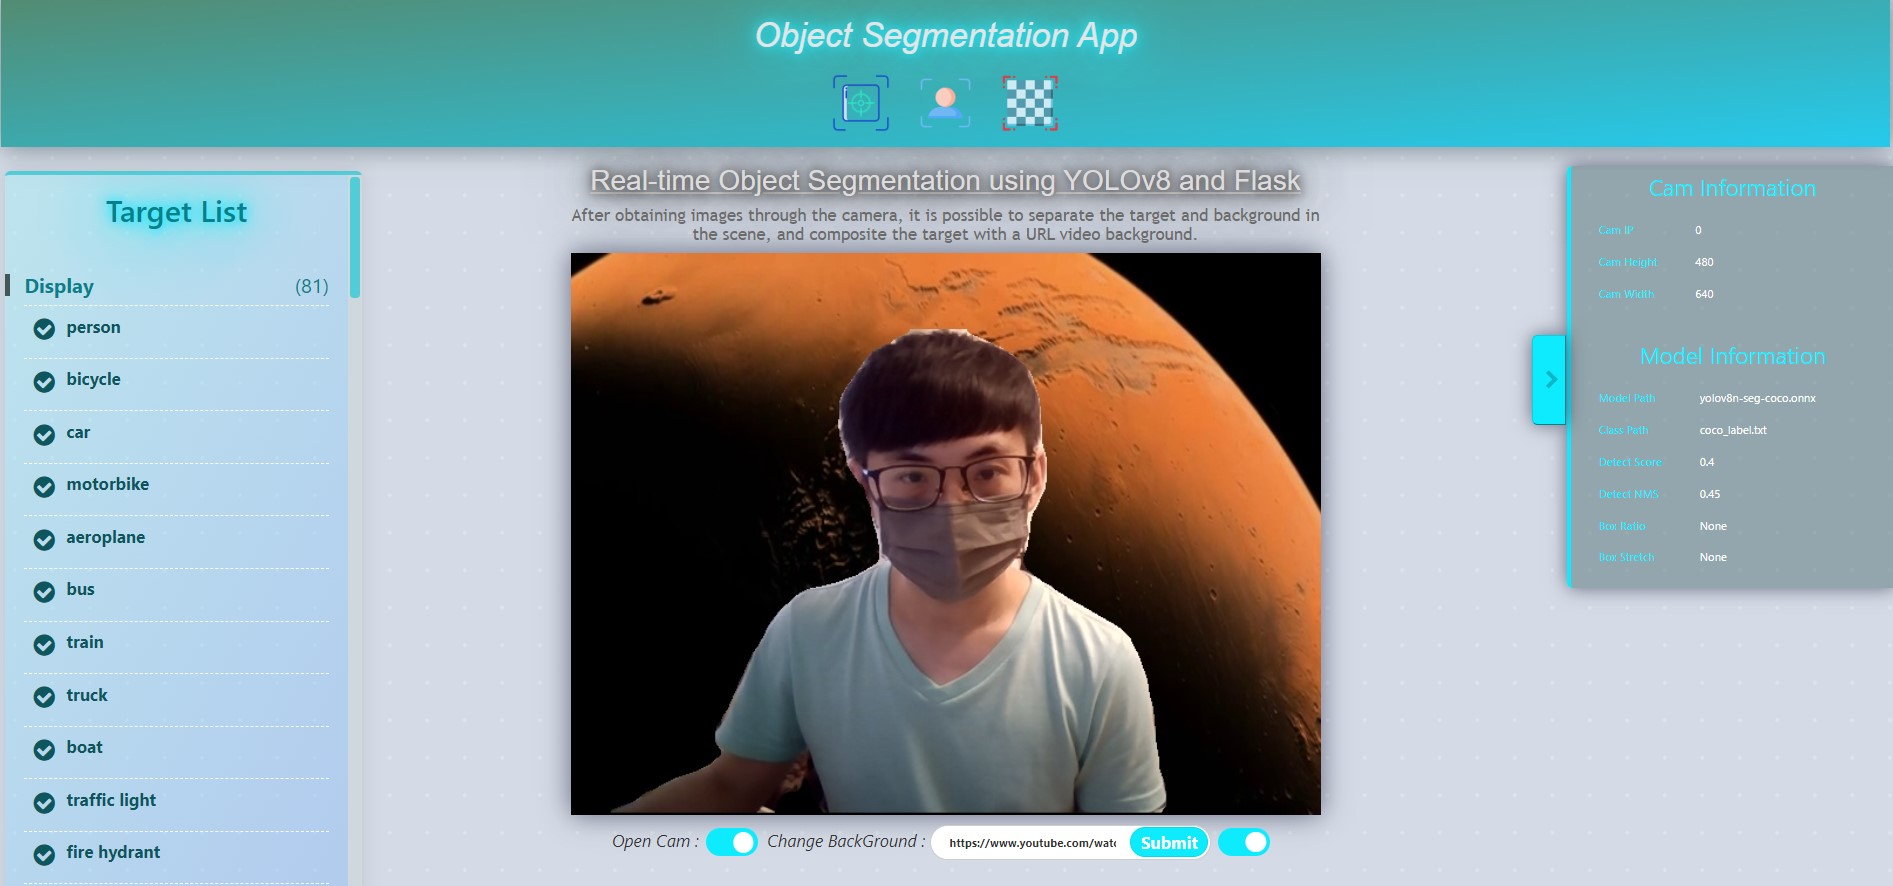
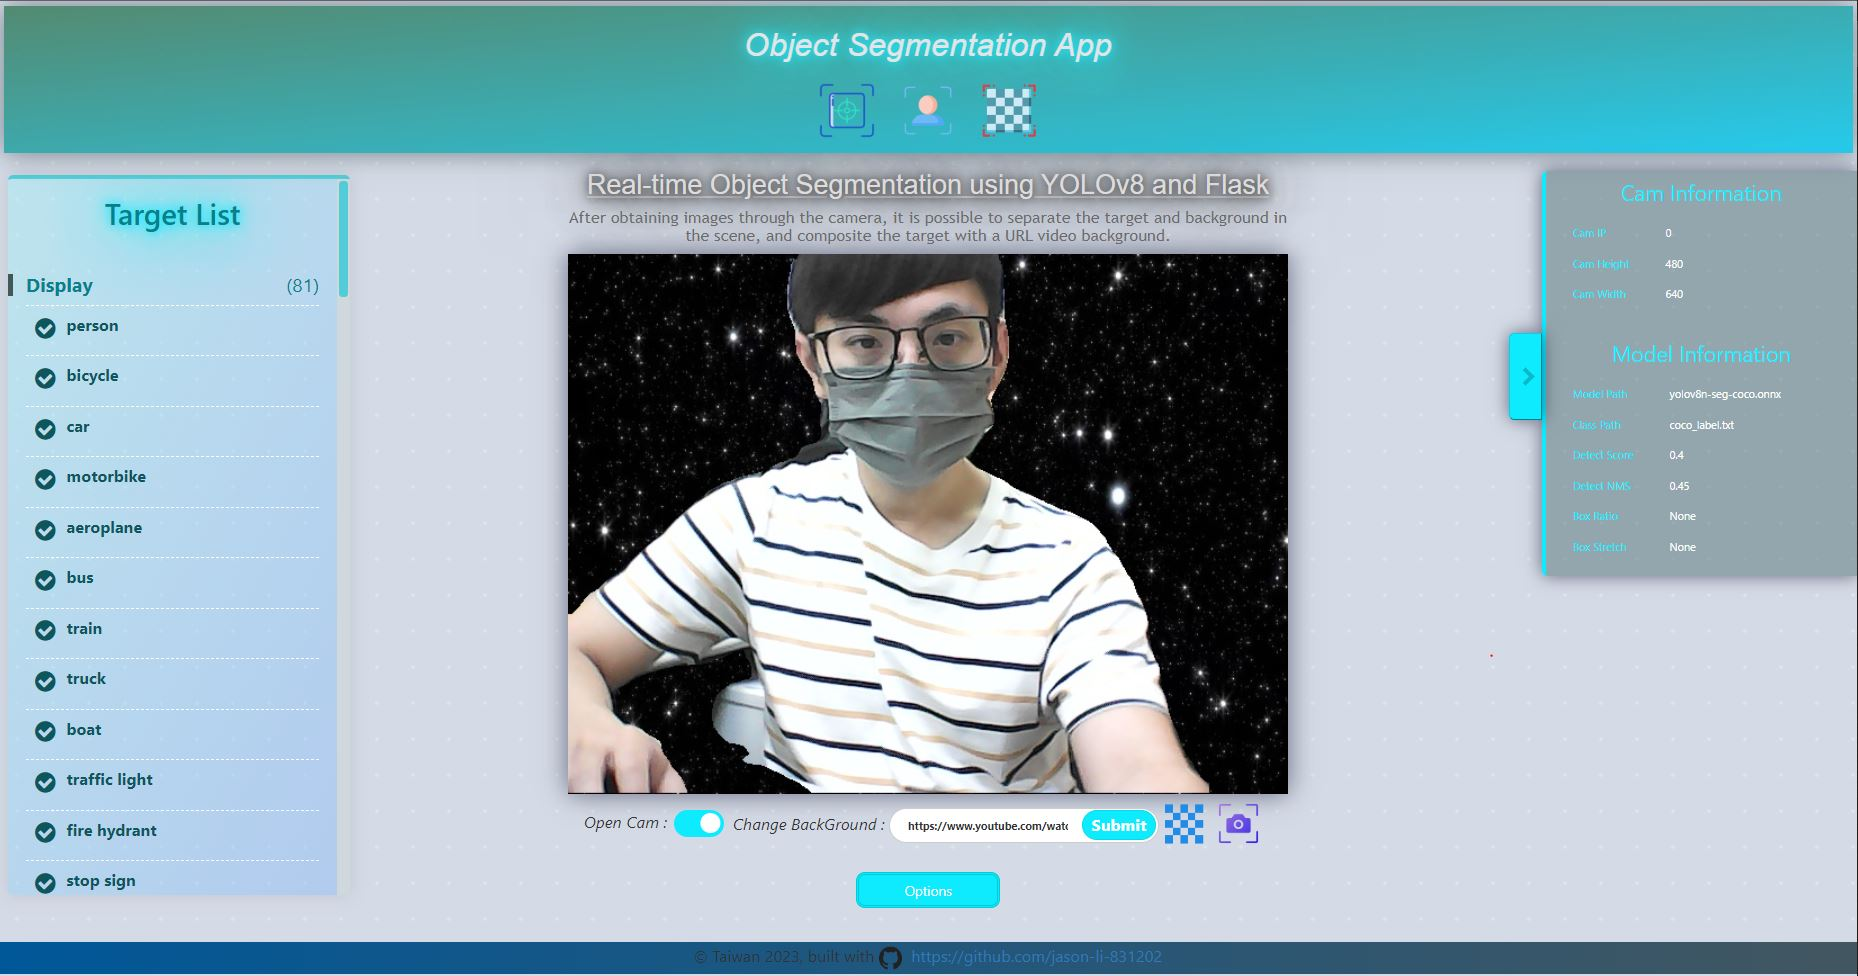
update btn UI.

diff --git a/src/templates/index.html b/src/templates/index.html
@@ -91,12 +91,15 @@
     <span ></span>
   </div>
 
-  <div id="container" align=center>
+  <div id="capture" align=center>
     <img id="videoElement" src="{{ url_for('video_feed') }}" />
+  </div>
 
+  <div id="container" align=center>
     <!-- main btn -->
-    <table style="margin-top:10px;">
+    <table style="margin-top:10px; width: 800px;">
         <tr>
+
           <td>
             <em> Open Cam : </em>
             <label class="switch">
@@ -104,16 +107,22 @@
               <span class="btnCyanSlider round"></span>
             </label>
           </td>
+
           <td>
             <em> Change BackGround : </em>
             <label class="custom-search">
               <input id="video-url" type="text" class="custom-search-input" placeholder="Enter Video Url or Local Path">
               <button id="upload" class="custom-search-botton" type="submit">Submit</button>  
             </label>
-            <label class="switch">
-              <input  type="checkbox" id="background-preview">
-              <span class="btnCyanSlider round"></span>
+
+          </td>
+          
+          <td>
+            <label class="switch-icon">
+              <input type="checkbox" id="background-preview">
+              <span class="btnIconSlider"></span>
             </label>
+            <button class="download" onclick="blockCapture()"></button>
           </td>
         </tr>
     </table>
@@ -221,6 +230,7 @@
 {% block scripts %}
 <!-- Imports -->
 <script src="//ajax.googleapis.com/ajax/libs/jquery/1.9.1/jquery.min.js"></script>
+<script src="https://html2canvas.hertzen.com/dist/html2canvas.min.js"></script>
 
 <!-- Scripts -->
 <script

diff --git a/src/templates/static/css/switch.css b/src/templates/static/css/switch.css
@@ -70,3 +70,50 @@ input:checked + .btnDarkGraySlider:before, input:checked + .btnCyanSlider:before
 .btnDarkGraySlider.round:before, .btnCyanSlider.round:before {
   border-radius: 50%;
 }
+
+
+/* The Icon switch*/
+.switch-icon {
+  border:none;
+  content: "";
+  display: inline-block;
+  color: #fff;
+  width: 45px;
+  height: 45px;
+  margin-right: 13px;
+  position: relative;
+  top: 0px;
+  vertical-align: middle;
+}
+
+/* Hide default HTML checkbox */
+.switch-icon input {
+  opacity: 0;
+  width: 0;
+  height: 15px;
+}
+
+.btnIconSlider {
+  background: url(/static/icons/bg.png) no-repeat scroll center center / 100% auto;
+  top: 0;
+  left: 0;
+  right: 0;
+  bottom: 0;
+  position: absolute;
+  cursor: pointer;
+}
+
+input[type=checkbox]:hover + .btnIconSlider {
+  width: 50px;
+  height: 50px;
+  border-radius: 5px;
+}
+
+input[type=checkbox] + .btnIconSlider {
+  background: url(/static/icons/bg.png) no-repeat scroll center center / 100% auto;
+
+}
+
+input[type=checkbox]:checked + .btnIconSlider {
+  background: url(/static/icons/pruning-bg.png) no-repeat scroll center center / 100% auto;
+}

diff --git a/src/templates/static/style.css b/src/templates/static/style.css
@@ -82,6 +82,8 @@ h1.aside{
 }
 
 #section{
+    /* background-color: black; */
+    /* width: auto; */
     width: 800px;
     /* margin-left: 28%; */
     margin: auto;
@@ -112,6 +114,7 @@ h1.aside{
     box-shadow: 0 0 30px hsla(240, 40%, 15%, 0.6);
 }
 
+
 #control {
     margin-top: 40px;
 }
@@ -131,4 +134,25 @@ input[type="file"] {
     overflow: hidden;
     clip: rect(0,0,0,0);
     border: 0;
+}
+
+.download {
+    background: url(/static/icons/screenshot.png) no-repeat scroll center center / 100% auto;
+    border:none;
+    content: "";
+    display: inline-block;
+    color: #fff;
+    width: 50px;
+    height: 50px;
+    margin-right: 13px;
+    position: relative;
+    top: -2px;
+    vertical-align: middle;
+ }
+
+ 
+.download:hover {
+width: 55px;
+height: 55px;
+border-radius: 5px;
 }

diff --git a/src/templates/static/script.js b/src/templates/static/script.js
@@ -16,6 +16,15 @@ function initSliderPosition(input_id){
   return val;
 }
 
+function blockCapture() {
+  html2canvas(document.querySelector("#capture")).then(function (canvas) {
+      a = document.createElement('a');
+      a.href = canvas.toDataURL("image/jpeg", 0.92).replace("image/jpeg", "image/octet-stream");
+      a.download = 'screenshot.jpg';
+      a.click();
+  });
+}
+
 function sliderChangeHandler(e) {
   target = document.getElementById(e.target.id)
 
@@ -126,7 +135,6 @@ $(function () {
     } 
     catch (error)
     {
-      // var btn = document.getElementById("background-preview");
       this.checked = false;
       alert("URL parsing error, can't click it.");
     }
